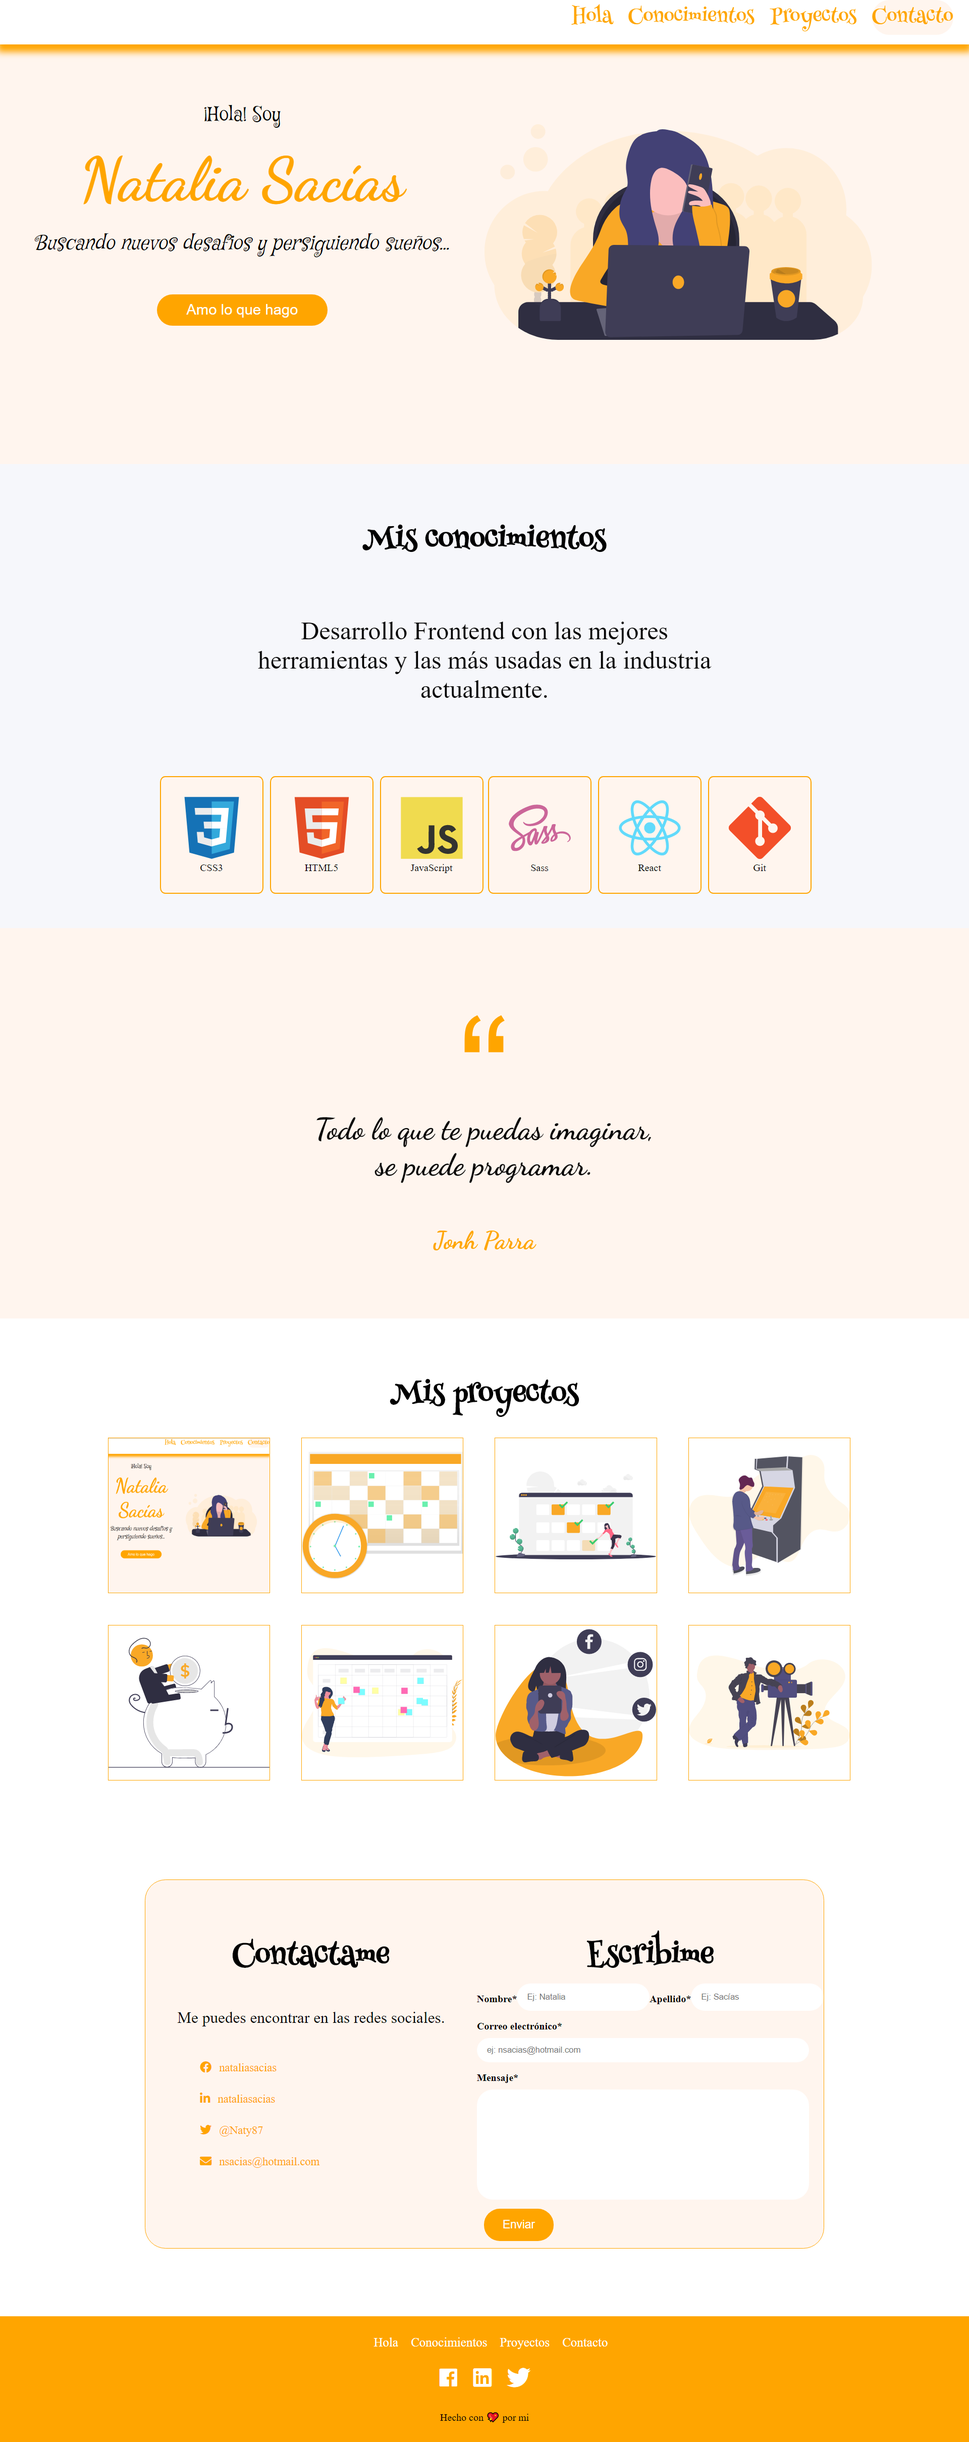
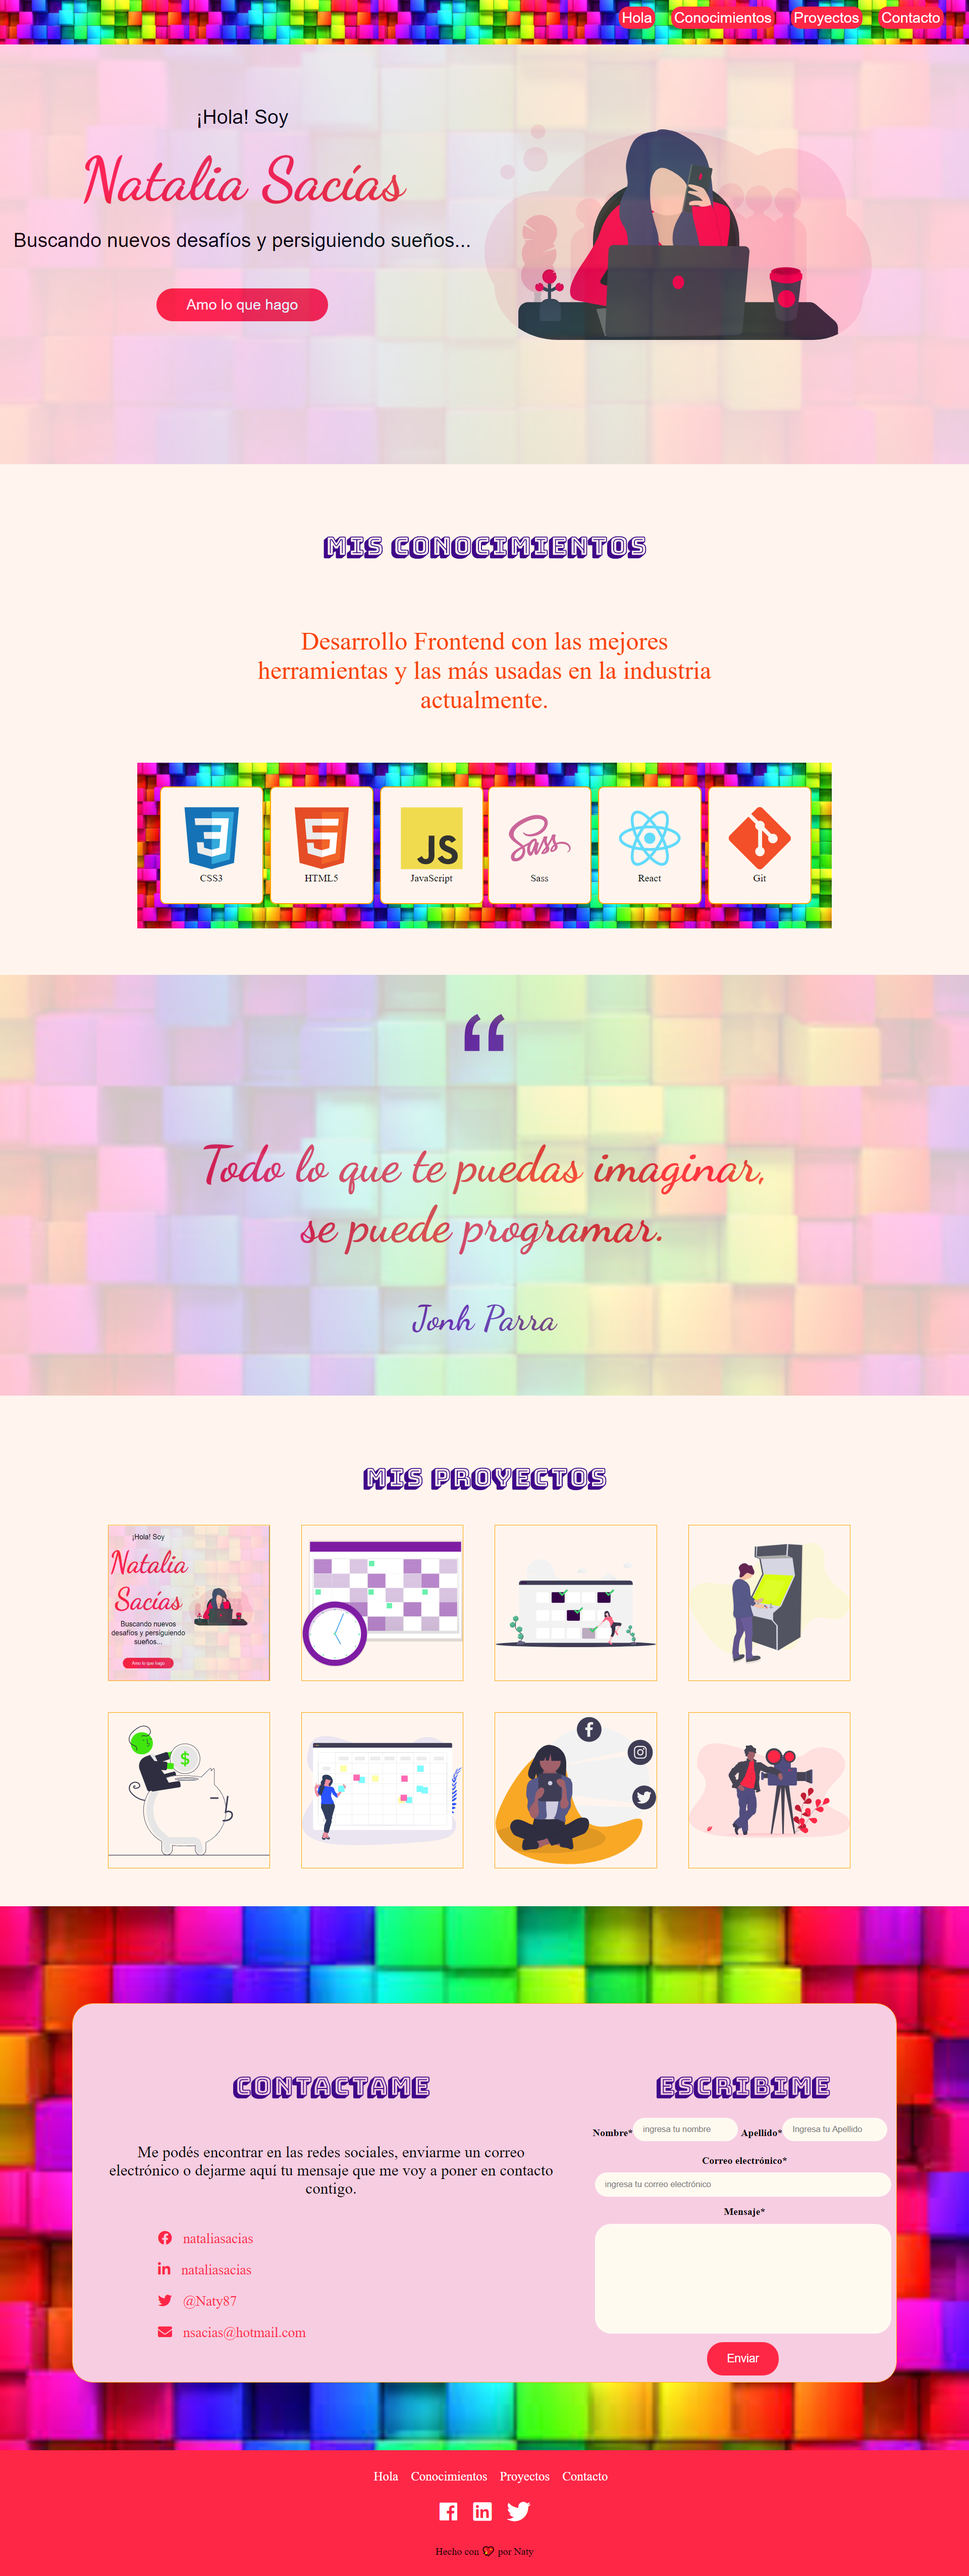
probando desde celus

diff --git a/css/style.css b/css/style.css
@@ -12,6 +12,10 @@
     --violeta_claro: #7f1ca4;
     --fucsia: #FF2746;
     --azul:#2A53FF;
+    --color:#d9fede;
+    --verde: #40e50e;
+    --amarillo: #D9FE0E;
+
 }
 body{
     background-image: url(../img/fondocita3.jfif);
@@ -167,7 +171,7 @@ header label:hover{
 .habilidades{
     width: 100%;
     /*height: 120vh;*/
-    height: 100vh;
+    height: 110vh;
     background-color:var(--fondos);
     text-align: center;
     align-items: center;
@@ -242,6 +246,7 @@ background-color: var(--fondos);
     opacity: 80%;
     padding: 90px;
     font-family: 'Dancing Script', cursive;
+    
 }
 .cita p{
     color: var(--violeta_claro);
@@ -305,7 +310,7 @@ blockquote::before{
 }
 .oculto{
     display: none;
-    color: var(--detalles);
+    color: var(--violeta_claro);
     font-size: 30px;
     text-align: center; 
     font-weight: bold;
